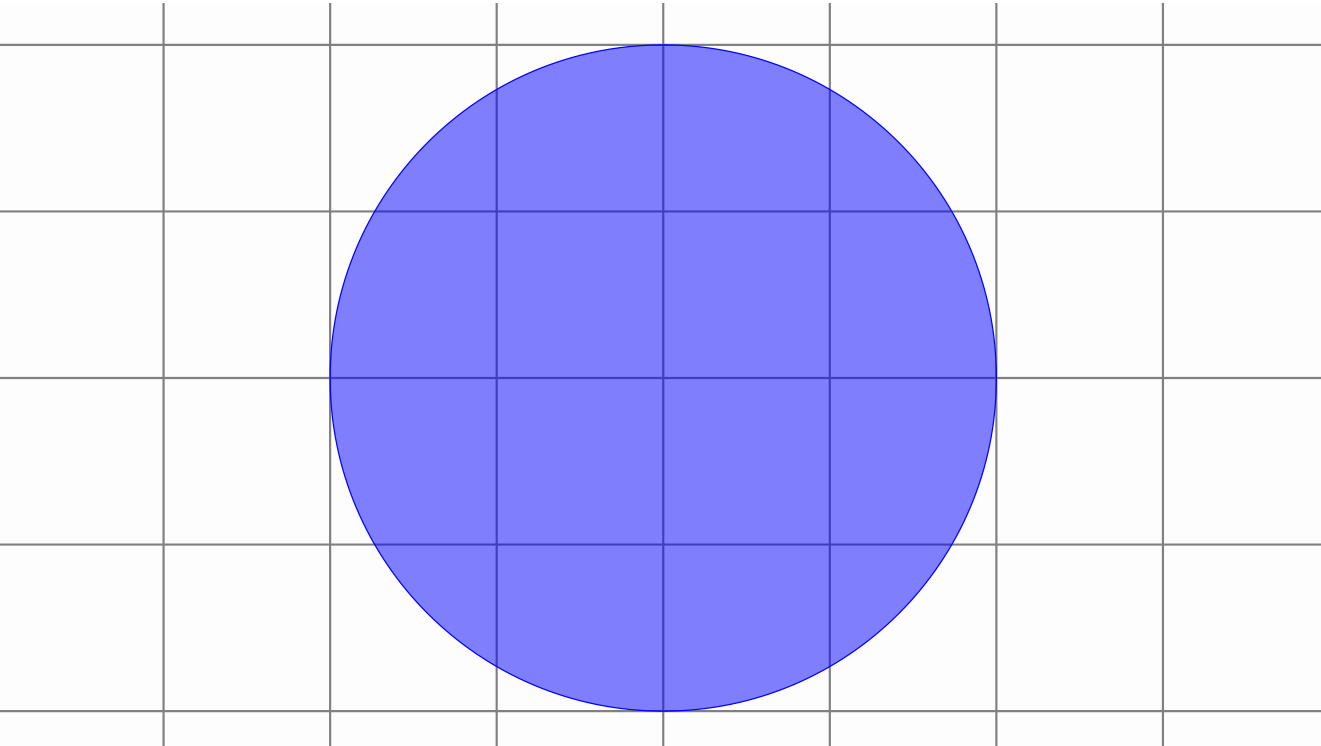
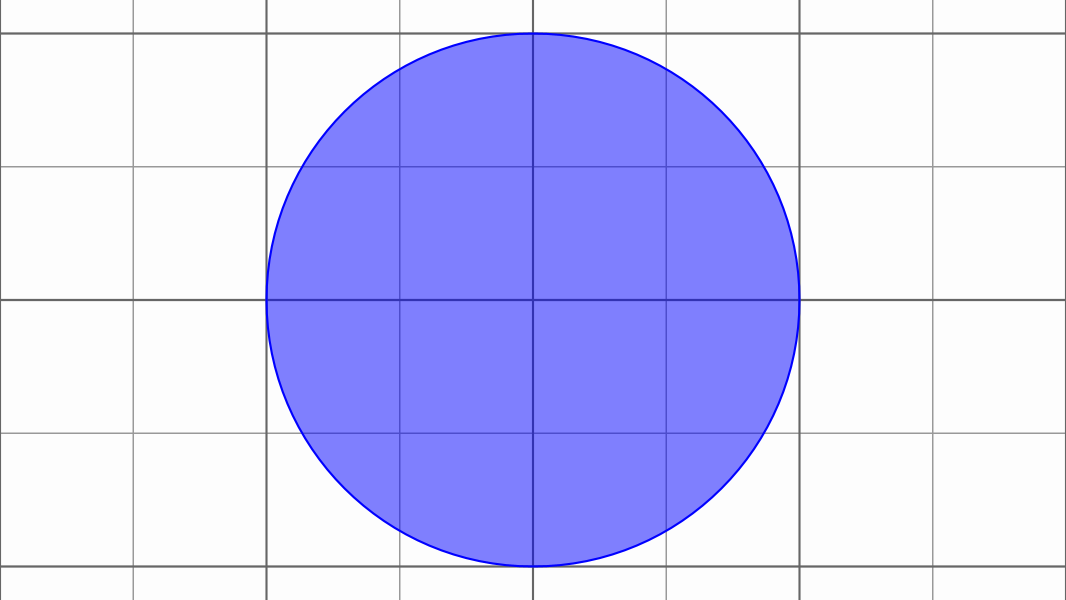
Signed-off-by: DavidGutierrezRubio <davidgutierrezrubio@gmail.com>

Changed region(s): [[0.0, 0.0, 1.0, 1.0], [0.3096, 0.78, 0.3405, 0.84], [0.3096, 0.15, 0.3405, 0.21]]

diff --git a/manual/02_BasicShapes/BasicShapes.md b/manual/02_BasicShapes/BasicShapes.md
@@ -240,51 +240,39 @@ waitSeconds(5);//Time for a screenshot!
 The name says it all!
 ```java
 //A grid with reference point (0.0) and 
-//steps of 0.5 between both vertical and horizontal lines
-CartesianGrid grid = CartesianGrid.make(0, 0, .5, .5);
-grid.thickness(7).drawColor("gray");
+//2 subdivisions for secondary grid
+CartesianGrid grid = CartesianGrid.make(0, 0, //Center of grid, usually (0,0)
+                                        2, //Number of horizontal divisions for the secondary grid
+                                        2//Number of vertical divisions for the secondary grid
+                                       );
 add(
     grid,
     Shape.circle() //A circle
-    .drawColor("blue") //drawn in blue
-    .fillColor("blue") //filled also in blue
-    .fillAlpha(.5) //with opacity 50%
+        .drawColor("blue") //drawn in blue
+        .fillColor("blue") //filled also in blue
+        .fillAlpha(.5) //with opacity 50%
 );
 waitSeconds(3);
 ```
 
 <img src="cartesianGrid.png" alt="image-20220920180537862" style="zoom:50%;" />
 
-You can specify a second pair of parameters to include a secondary grid, in this case, returns a `MathObjectGroup` including 2 cartesian grids, the primary and secondary. In this case, the `make` method will return a `MathObjectGroup` containing 2 `CartesianGrid` objects:
-
-```java
-MathObjectGroup grid = CartesianGrid.make(0, 0, .5, .5, .25, .25);
-add(
-    grid,
-    Shape.circle().drawColor("firebrick").fillColor("firebrick").fillAlpha(.5)
-);
-waitSeconds(3);
-```
-
-
-
-<img src="grid02.png" alt="grid2" style="zoom: 67%;" />
-
 By default, grids are drawn using the `gridPrimaryDefault` and  `gridSecondaryDefault` styles. You can read more about styles in the next chapters.
-
-## The `Arrow2D` class
-> **WARNING**: Since v0.9.10-SNAPSHOT this class is deprecated and is replaced by the better implemented `Arrow`class. You should consider using it instead.
 
 ## The `Arrow` class
 Since v0.9.10-SNAPSHOT this class replaces the old `Arrow2D`class and provides a better and more flexible implementation.
 ```java
 Point A = Point.at(0, 0);
 Point B = Point.at(1, 0);
-Arrow ar = Arrow.make(A, B, Arrow.ArrowType.ARROW1);
-Arrow ar2 = Arrow.make(A.copy(), B.copy(), ArrowType.ARROW2).stackTo(ar, Anchor.Type.LOWER, .1);
-Arrow ar3 = Arrow.make(A.copy(), B.copy(), ArrowType.ARROW3).stackTo(ar2, Anchor.Type.LOWER, .1);
-Arrow ar4 = Arrow.makeDouble(A.copy(), B.copy(), ArrowType.ARROW2, ArrowType.ARROW3).stackTo(ar3, Anchor.Type.LOWER, .1);
-Arrow ar5 = Arrow.makeDouble(A.copy(), B.copy(), ArrowType.SQUARE, ArrowType.SQUARE).stackTo(ar4, Anchor.Type.LOWER, .1);
+Arrow ar = Arrow.make(A, B, ArrowType.ARROW1);
+Arrow ar2 = Arrow.make(A.copy(), B.copy(), ArrowType.ARROW2)
+    .stack().withGaps(.1).withDestinyAnchor(AnchorType.LOWER).toObject(ar);
+Arrow ar3 = Arrow.make(A.copy(), B.copy(), ArrowType.ARROW3)
+    .stack().withGaps(.1).withDestinyAnchor(AnchorType.LOWER).toObject(ar2);
+Arrow ar4 = Arrow.makeDouble(A.copy(), B.copy(), ArrowType.ARROW2, ArrowType.ARROW3)
+    .stack().withGaps(.1).withDestinyAnchor(AnchorType.LOWER).toObject(ar3);
+Arrow ar5 = Arrow.makeDouble(A.copy(), B.copy(), ArrowType.SQUARE, ArrowType.SQUARE)
+    .stack().withGaps(.1).withDestinyAnchor(AnchorType.LOWER).toObject(ar4);
 add(ar, ar2, ar3, ar4, ar5);
 camera.zoomToAllObjects();
 waitSeconds(4);
@@ -297,7 +285,7 @@ Produces the following image:
 ```java
 Point A = Point.at(0, 0);
 Point B = Point.at(1, 0);
-Arrow ar = Arrow.make(A, B, Arrow.ArrowType.ARROW1);
+Arrow ar = Arrow.make(A, B, ArrowType.ARROW1);
 ar.setCurvature(60 * DEGREES);
 add(ar);
 camera.zoomToAllObjects();
@@ -312,7 +300,7 @@ You can set individual scales for start and ending parts with the `setStartScale
 //Points A,B are added to the scene in red color
 Point A = Point.at(0, 0).layer(1).drawColor("red");
 Point B = Point.at(2, 0).layer(1).drawColor("red");
-Arrow ar1 = Arrow.make(A, B, Arrow.ArrowType.ARROW2);
+Arrow ar1 = Arrow.make(A, B, ArrowType.ARROW2);
 ar1.setArrowThickness(100);
 ar1.setCurvature(-45 * DEGREES);
 ar1.setStartScale(5);//Start is 5x the end
@@ -343,12 +331,12 @@ Here you can see an example with delimiters:
 Shape sq = Shape.square().center().style("solidBlue");
 
 //A red brace with a x legend
-Delimiter delim1 = Delimiter.make(sq.getPoint(2), sq.getPoint(1), Delimiter.Type.BRACE, .05);
+Delimiter delim1 = Delimiter.make(sq.getPoint(2), sq.getPoint(1), DelimiterType.BRACE, .05);
 delim1.setLabel("$x$", .1);
 delim1.fillColor("#d35d6e");//This will set the color both to label and delimiter
 
 //A green bracket with a yellow triangle as a legend. This triangle will rotate with the delimiter
-Delimiter delim2 = Delimiter.make(sq.getPoint(1), sq.getPoint(0), Delimiter.Type.BRACKET, .05);
+Delimiter delim2 = Delimiter.make(sq.getPoint(1), sq.getPoint(0), DelimiterType.BRACKET, .05);
 delim2.setLabel(Shape.regularPolygon(3).scale(.1), .1);
 delim2.fillColor("#5aa469");//This will set the fill color both to label and delimiter
 delim2.getLabel().fillColor("yellow").thickness(6);//Change style of label only
@@ -356,10 +344,10 @@ delim2.getLabel().fillColor("yellow").thickness(6);//Change style of label only
 //FIXED: Label doesn't rotate.
 //ROTATE: Label rotates with the delimiter
 //SMART: Label rotates trying not to get "upside-down" (default value)
-delim2.setRotationType(Delimiter.Rotation.FIXED);
+delim2.setRotationType(RotationType.FIXED);
 
 //An orange parenthesis
-Delimiter delim3 = Delimiter.make(sq.getPoint(0), sq.getPoint(3), Delimiter.Type.PARENTHESIS, .05);
+Delimiter delim3 = Delimiter.make(sq.getPoint(0), sq.getPoint(3), DelimiterType.PARENTHESIS, .05);
 delim3.style("solidorange");
 delim3.setDelimiterScale(3);//Make a 3x bigger parenthesis
 delim3.setLabel("3", .2);//Note that style solidorange will not be applied to this label!
@@ -384,22 +372,21 @@ A tippable object is a MathObject that marks a specified point of a `Shape`. Any
 Shape reg = Shape.regularPolygon(6).center().style("solidblue");
 
 //A black type 1 arrow head at the middle of one side
-TippableObject tip1 = TippableObject.arrowHead(reg, .5 / 6,
-	TippableObject.SlopeDirectionType.POSITIVE,
-    Arrow.ArrowType.Arrow1
-    ).layer(1);
+TippableObject tip1 = TippableObject.arrowHead(reg, .5 / 6,ArrowType.ARROW1)
+    .setSlopeDirection(SlopeDirectionType.POSITIVE)//Locate it to the left side of the contour
+    .layer(1);
 
 //A LaTeX expression, color darkslateblue, at the middle of one side
 //this expression rotates with the side, and the mark point is visible
 LabelTip tip2 = LabelTip.makeLabelTip(reg, 1.5 / 6, "$a+b$")
-    .visibleMarkPoint(true)//Mark point is visible.
+    //                .setSlopeDirection(SlopeDirectionType.NEGATIVE)//Locate it to the right side of the contour
     .color("darkslateblue")
     .layer(1);
 
 //A LaTeX expression, color firebrick, attached to a side, that does not rotate with the shape
 LabelTip tip3 = LabelTip.makeLabelTip(reg, 2.5 / 6, "$x$")
-    .visibleMarkPoint(false) //The mark point is not visible
-    .fixedAngle(true) //The text shows with a fixed angle (doesn't align with the slope of the Shape)
+    //                .setSlopeDirection(SlopeDirectionType.NEGATIVE)//Locate it to the right side of the contour
+    .setRotationType(RotationType.FIXED) //The text shows with a fixed angle (doesn't align with the slope of the Shape)
     .color("firebrick")
     .layer(1);
 
@@ -408,16 +395,16 @@ TippableObject tip4 = TippableObject.equalLengthTip(reg, 3.5 / 6, 2).layer(1);
 
 //A solid orange circle
 TippableObject tip5 = TippableObject.make(reg, 4.5 / 6,
-	TippableObject.SlopeDirectionType.POSITIVE,
-    Shape.circle().scale(.05).style("solidOrange")
-    ).layer(1);
+                                          SlopeDirectionType.POSITIVE,//Align it through the contour
+                                          Shape.circle().scale(.05).style("solidOrange")
+                                         ).layer(1);
 
 //A solid red square, aligned to the left of the shape point
 TippableObject tip6 = TippableObject.make(reg, 5.5 / 6,
-	TippableObject.SlopeDirectionType.POSITIVE,
-    Shape.square().scale(.1).style("solidRed")
+                                          SlopeDirectionType.NEGATIVE,
+                                          Shape.square().scale(.1).style("solidRed")
                                          );
-tip6.setAnchor(Anchor.Type.LEFT).layer(1);
+tip6.setAnchor(AnchorType.LEFT).layer(1);
 
 add(reg, tip1, tip2, tip3, tip4, tip5, tip6);
 
@@ -439,8 +426,9 @@ JMathAnim can import and transform all bitmap images supported by JavaFX, like p
 
 ````java
 JMImage img=JMImage.make("euler.jpg").center().rotate(-5*DEGREES);
-LatexMathObject text=LatexMathObject.make("All hail the great Euler!").stackTo(img, Anchor.Type.LOWER);
-Animation anim = Commands.moveIn(2, Anchor.Type.LEFT, img);
+LatexMathObject text = LatexMathObject.make("All hail the great Euler!")
+    .stack().withDestinyAnchor(AnchorType.LOWER).toObject(img);
+Animation anim = Commands.moveIn(2, ScreenAnchor.LEFT, img);
 playAnimation(anim,new ShowCreation(2 ,text));
 waitSeconds(3);
 ````
@@ -458,7 +446,7 @@ public void setupSketch() {
 
     @Override
 public void runSketch() throws Exception {
-	SVGMathObject svg=SVGMathObject.make("donaldKnuth.svg");
+    MultiShapeObject svg= SVGUtils.importSVG("donaldKnuth.svg");
     svg.setHeight(2).center();
     play.showCreation(svg);//Plays an animation drawing the svg object
     waitSeconds(3);
@@ -534,15 +522,15 @@ r.ymax;//The most upper y-coordinate of the Rect
 r.getWidth();//Returns the width of the Rect
 r.getHeight();//Returns the height of the Rect
 r.addGap(.1, .2);//Creates a new Rect increased by .1 in x (left and right) and .2 in y (upper and lower)
-r.getCenter();//Gets a Point lying in the center of the Rect
-r.getUL();//Gets a Point lying the Upper-Left corner
-r.getUR();//Gets a Point lying the Upper-Right corner
-r.getDL();//Gets a Point lying the Lower-Left corner
-r.getDL();//Gets a Point lying the Lower-Right corner
+r.getCenter();//Gets a Vec lying in the center of the Rect
+r.getUpperLeft();//Gets a Vec lying the Upper-Left corner
+r.getUpperRight();//Gets a Vec lying the Upper-Right corner
+r.getLowerLeft();//Gets a Vec lying the Lower-Left corner
+r.getLowerRight();//Gets a Vec lying the Lower-Right corner
 r.centerAt(dst);//Moves the Rect so that its center lies in dst
 r.getRotatedRect(45*DEGREES);//Returns the smallest Rect that contains the original rotated 45 degrees
-r.getRelPoint(.25, .25);//Returns a Point located at the relative coordinates (.25,.25) of the Rect
-r.getRelPoint(.5,.5);//This is the same as r.getCenter()
+r.getRelCoordinates(.25, .25);//Returns a Vec located at the relative coordinates (.25,.25) of the Rect
+r.getRelCoordinates(.5,.5);//This is the same as r.getCenter()
 ```
 
 Apart from bounding boxes, the `Rect` class is used to represent the mathview. The method `getMathView()` returns a `Rect `will represent all the visible area that is currently being drawn.
@@ -551,15 +539,19 @@ Thus, for example, the following code will draw some dots at key points of the s
 
 ```java
 Rect mathView = getMathView();
-Point center = mathView.getCenter().dotStyle(Point.DotSyle.PLUS);//A black point with a plus sign at the center
-Point UL = mathView.getUL();//Black point at upper-left corner of the screen
-Point UR = mathView.getUR();//Black point at upper-right corner of the screen
-Point DL = mathView.getDL();//Black point at lower-left corner of the screen
-Point DR = mathView.getDR();//Black point at lower-right corner of the screen
-Point Q1 = mathView.getRelPoint(.25, .25).drawColor("red");//Red point at (25%,25%) of the screen
-Point Q2 = mathView.getRelPoint(.75, .25).drawColor("green");//Green point at (75%,25%) of the screen
-Point Q3 = mathView.getRelPoint(.75, .75).drawColor("yellow");//Yellow point at (75%,75%) of the screen
-Point Q4 = mathView.getRelPoint(.25, .75).drawColor("blue");//Blue point at (25%,75%) of the screen
+
+//Note that these Rect methods return a Vec object
+//and we must wrap them into a Point object in order
+//to add them to the scene
+Point center = Point.at(mathView.getCenter()).dotStyle(DotStyle.PLUS);//A black point with a plus sign at the center
+Point UL = Point.at(mathView.getUpperLeft());//Black point at upper-left corner of the screen
+Point UR = Point.at(mathView.getUpperRight());//Black point at upper-right corner of the screen
+Point DL = Point.at(mathView.getLowerLeft());//Black point at lower-left corner of the screen
+Point DR = Point.at(mathView.getLowerRight());//Black point at lower-right corner of the screen
+Point Q1 = Point.at(mathView.getRelCoordinates(.25, .25)).drawColor("red");//Red point at (25%,25%) of the screen
+Point Q2 = Point.at(mathView.getRelCoordinates(.75, .25)).drawColor("green");//Green point at (75%,25%) of the screen
+Point Q3 = Point.at(mathView.getRelCoordinates(.75, .75)).drawColor("yellow");//Yellow point at (75%,75%) of the screen
+Point Q4 = Point.at(mathView.getRelCoordinates(.25, .75)).drawColor("blue");//Blue point at (25%,75%) of the screen
 add(center, UL, UR, DL, DR, Q1, Q2, Q3, Q4);
 add(Shape.rectangle(getMathView()).scale(.9));//add a rectangle with size 90% of the screen
 waitSeconds(5);
